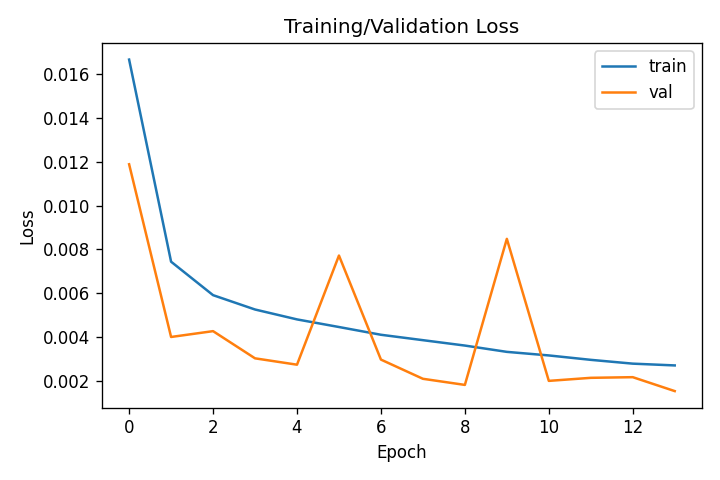
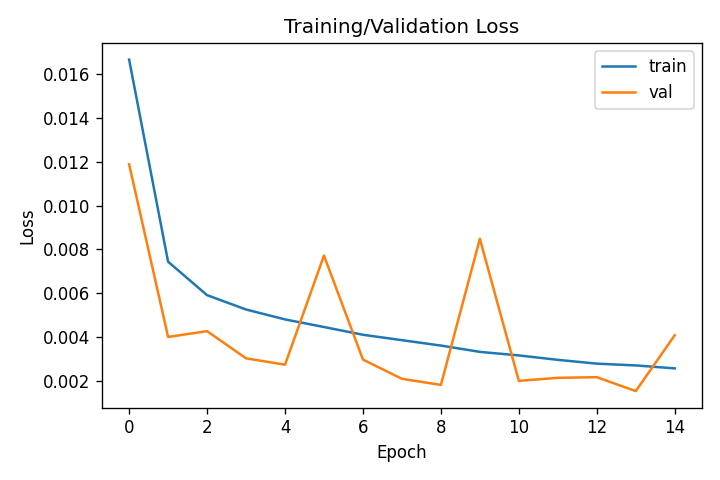
trained drf 4, 10, 20, 50

diff --git a/train_dynunet.py b/train_dynunet.py
@@ -89,7 +89,7 @@ VAL_FRACTION = 0.05
 RANDOM_SEED = 42
 
 BATCH_SIZE = 8  ###
-EPOCHS = 15  ###
+EPOCHS = 25  ###15  ###
 LR = 5e-5  ###1e-4
 WEIGHT_DECAY = 1e-5
 
@@ -1063,10 +1063,10 @@ class LazyPatchDataset(Dataset):
 
 def make_model(model_name: str = "DynUNet", img_size: Tuple[int, int, int] = (96, 96, 96)) -> nn.Module:
     if model_name.lower() == "dynunet":
-        kernel_size = [[3, 3, 3]] * 5
-        strides = [1, 2, 2, 2, 2]
-        up_kernels = [2, 2, 2, 2]
-        # add to make the model larger: filters=[16, 32, 64, 128, 256, 512]
+        kernel_size = [[3, 3, 3]] * 6  #5
+        strides = [1, 2, 2, 2, 2, 2]
+        up_kernels = [2, 2, 2, 2, 2, 2]  ### 6 layers now, before it was 5
+        # add to make the model larger: filters=[8, 16, 32, 64, 128, 256], 512]
         model = DynUNet(
             spatial_dims=3,
             in_channels=1,
@@ -1074,6 +1074,7 @@ def make_model(model_name: str = "DynUNet", img_size: Tuple[int, int, int] = (96
             kernel_size=kernel_size,
             strides=strides,
             upsample_kernel_size=up_kernels,
+            filters=[16, 32, 64, 128, 256, 512], ###
             norm_name=("instance", {"affine": True}),
             act_name=("leakyrelu", {"inplace": True, "negative_slope": 0.01}),
             deep_supervision=False,
